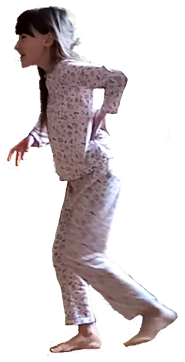
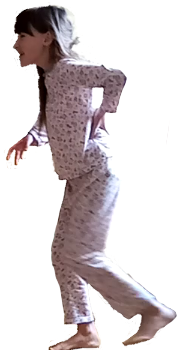
cut off the bottom of girl monster, where she is below the floor

Changed region(s): [[0.0278, 0.0, 1.0, 1.0], [0.0556, 0.0286, 0.2778, 0.2571]]

diff --git a/game.py b/game.py
@@ -125,7 +125,7 @@ blocks =      'ABCDEFGHIJKLMNOPQRSTUVW'
 wall_flags =  '1                      '
 floor_flags = '11 2 11111111         3'
 on_flags =    '  1 1        2222      '   # 1 = death,  2 = end
-jump_dir = [-16, -16, -14, -10, -8,   -6, -4, -2, 0, 0, 2, 4, 6,  8, 10, 14, 16,]
+jump_dir = [-16, -16, -14, -10, -8, -6, -4, -2, 0, 0, 2, 4, 6,  8, 10, 14, 16,]
 images = []
 pixel_scale = 32 # pixels per metre
 font_height = 30
@@ -145,7 +145,6 @@ conveyor = []
 level_title = ''
 background_color = pygame.Color(0,0,0)
 
-#GIRL_OFFSETS = [ [97, 356], [83, 352], [81, 356], [96, 377], [99, 378], [105, 379], [99, 386], [96, 379] ]
 GIRL_OFFSETS = [ [97, 348], [83, 351], [81, 356], [96, 365], [99, 361], [105, 365], [99, 375], [96, 366] ]
 GIRL_PIXEL_SCALE = 175
 DAN_OFFSETS = [ [178,470], [140, 475], [80,465], [110,464], [151,453], [120,459], [74, 459], [108, 465] ]
